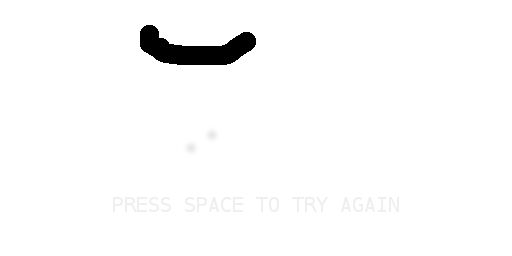
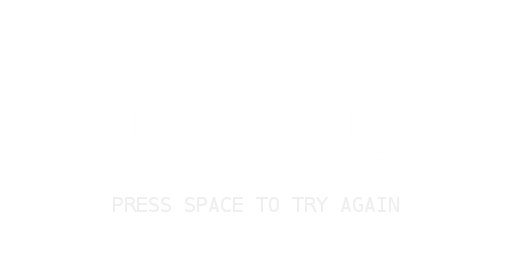
Shoots

Changed region(s): [[0.25, 0.0938, 0.5, 0.2812]]

diff --git a/OrionsBelt/GfxStateMachine.cpp b/OrionsBelt/GfxStateMachine.cpp
@@ -50,26 +50,46 @@ void GfxStateMachine::RenderObjects(void){
 
 
 
+
+
 	for(int i=0;i<theWorld->nObjects;i++){
 		glPushMatrix();
 		float x = theWorld->worldObjects[i]->x;
 		float y = theWorld->worldObjects[i]->y;
-		float psi  = theWorld->worldObjects[i]->psi;
-		glLoadIdentity();
-		glTranslatef(x,y,0);
-		glRotatef(psi,0,0,1); //rotera kring z-axeln
 
-		glBegin(GL_LINE_LOOP);
-		glColor3f(1.0f, 1.0f, 1.0);
-		unsigned short tmp = theWorld->worldObjects[i]->nLine;
-		for(unsigned short k=0;k<tmp;k++){
+		if(theWorld->worldObjects[i]->plyType==LINE_LOOP){
 
-			glVertex2f(theWorld->worldObjects[i]->lineLoop[k]->x,theWorld->worldObjects[i]->lineLoop[k]->y);
+			float psi  = theWorld->worldObjects[i]->psi;
+			glLoadIdentity();
+			glTranslatef(x,y,0);
+			glRotatef(psi,0,0,1); //rotera kring z-axeln
+
+			glBegin(GL_LINE_LOOP);
+			glColor3f(1.0f, 1.0f, 1.0);
+			unsigned short tmp = theWorld->worldObjects[i]->nLine;
+			for(unsigned short k=0;k<tmp;k++){
+
+				glVertex2f(theWorld->worldObjects[i]->lineLoop[k]->x,theWorld->worldObjects[i]->lineLoop[k]->y);
+			}
+			glEnd();
 		}
-		glEnd();
+		else{
+			//glClear(GL_COLOR_BUFFER_BIT | GL_DEPTH_BUFFER_BIT);
+			glLoadIdentity();
+
+			glTranslatef(x,y,0);
+			glColor3f(1.0f, 1.0f, 1.0);
+			glPointSize(2.0f);
+			glBegin(GL_POINTS);
+				glVertex2f(theWorld->worldObjects[i]->lineLoop[0]->x,theWorld->worldObjects[i]->lineLoop[0]->y);
+			glEnd();
+
+		}
+
 		glPopMatrix();
 
 	}
+
 
 }
 
@@ -93,10 +113,9 @@ void GfxStateMachine::RenderDeadScreen() {
 		glBegin(GL_QUADS);
 		glColor4f(1,1,1,1.0);
 		glTexCoord2f(0.0, 1.0);glVertex2f(GLB::w*0.4, GLB::h*0.5+GLB::w*0.1);//upper left
-		glTexCoord2f(0.0, 0.0); glVertex2f(GLB::w*0.4,  GLB::h*0.5-GLB::w*0.1);//lower left
+		glTexCoord2f(0.0, 0.0);glVertex2f(GLB::w*0.4, GLB::h*0.5-GLB::w*0.1);//lower left
 		glTexCoord2f(1.0, 0.0);glVertex2f(GLB::w*0.6, GLB::h*0.5-GLB::w*0.1); //lower right
 		glTexCoord2f(1.0, 1.0);glVertex2f(GLB::w*0.6, GLB::h*0.5+GLB::w*0.1);///upper right
-
 	glEnd();
 	glDisable(GL_TEXTURE_2D);
 	glPopMatrix();

diff --git a/OrionsBelt/WorldObject.cpp b/OrionsBelt/WorldObject.cpp
@@ -13,22 +13,9 @@
 #define RANDZM(x) (rand()%x-x/2)
 
 
-WorldObject::WorldObject(float x,float y,float psi,float vx,float vy,float dpsi){
-			this->x = x;
-			this->y = y;
-			this->psi = psi;
-			this->vx = vx;
-			this->vx = vy;
-			this->dpsi = dpsi;
-}
+
 
 WorldObject::WorldObject() {
-			this->x = 0;
-			this->y = 0;
-			this->psi = 0;
-			this->vx = 0;
-			this->vx = 0;
-			this->dpsi = 0;
 }
 
 void WorldObject::SetGeometry(GLfloat* points, int nPointPairs){
@@ -73,6 +60,7 @@ Asteroid::Asteroid(){
 	this->dpsi = +RANDZM(50);
 	objType = TYPE_ASTEROID;
 	colRad = 55;
+	plyType = LINE_LOOP;
 }
 
 MyShip::MyShip(){
@@ -83,9 +71,32 @@ MyShip::MyShip(){
 	this->nLine = 3;
 	this->objType = TYPE_MYSHIP;
 	colRad = 30;
+	plyType = LINE_LOOP;
 }
 
 
 void MyShip::Kill() {
 	this->~WorldObject();
+}
+
+Bullet::Bullet(WorldObject* parent) {
+	this->objType = TYPE_BULLET;
+	this->lineLoop = new Vector*[1];
+	this->lineLoop[0] = new Vector(0,0);
+	this->nLine = 1;
+	this->x = parent->x+cos(parent->psi/57.3)*100;
+	this->y = parent->y+sin(parent->psi/57.3)*100;
+	this->vx = parent->vx+700*cos(parent->psi/57.3);
+	this->vy = parent->vy+700*sin(parent->psi/57.3);
+	plyType = VERTEX;
+	colRad = 1;
+	psi = 0;
+}
+
+Explosion::Explosion(Point start, WorldObject parent) {
+
+}
+
+void MyShip::FireBullet() {
+	theWorld->AddObject(new Bullet(theWorld->myShip));
 }

diff --git a/OrionsBelt/WorldObject.h b/OrionsBelt/WorldObject.h
@@ -10,11 +10,18 @@
 
 #include "main.h"
 
+#define TYPE_MYSHIP 1
+#define TYPE_ASTEROID 2
+#define TYPE_BULLET 3
 
+enum plyTypes {
+	LINE_LOOP,
+	VERTEX
+};
 
 class WorldObject {
 public:
-	WorldObject(float x,float y,float psi,float vx,float vy,float dpsi);
+
 	WorldObject();
 	virtual ~WorldObject();
 	void SetGeometry(GLfloat* points, int nPointPairs);
@@ -27,16 +34,11 @@ public:
 	float vy;
 	float dpsi;
 	float colRad;
-	unsigned int plyType ;
+	plyTypes plyType ;
 	Vector ** lineLoop;
 	unsigned short nLine;
 	int reserved[4];
 };
-
-
-
-
-
 
 
 class MyShip: public WorldObject {
@@ -44,11 +46,27 @@ class MyShip: public WorldObject {
 	public:
 		MyShip();
 		void Kill();
+		void FireBullet();
 	};
 
 class Asteroid: public WorldObject {
 	public:
 		Asteroid();
+};
+
+class Bullet: public WorldObject{
+	public:
+		Bullet(WorldObject* parent);
+};
+
+class Schrapnel: public WorldObject{
+public:
+	Schrapnel(Point start, WorldObject parent);
+};
+
+class Explosion: public WorldObject{
+	public:
+		Explosion(Point start, WorldObject parent);
 };
 
 #endif /* WORLDOBJECT_H_ */

diff --git a/OrionsBelt/GameStateMachine.cpp b/OrionsBelt/GameStateMachine.cpp
@@ -52,6 +52,9 @@ void changeShipVelocity() {
 void checkBorders() {
 
 	for(int i = 0; i< theWorld->nObjects; i++){
+		if(theWorld->worldObjects[i]->objType == TYPE_BULLET)
+			continue;
+
 		if (theWorld->worldObjects[i]->x >GLB::w)
 			theWorld->worldObjects[i]->x = 0;
 
@@ -117,6 +120,13 @@ GameStateMachine::~GameStateMachine() {
 	// TODO Auto-generated destructor stub
 }
 
+void GameStateMachine::UpdateObjects(){
+	MyShip* myShip = theWorld->GetMyShip();
+	if(myShip!=NULL & keyboardState.ent)
+		myShip->FireBullet();
+
+}
+
 void GameStateMachine::UpdateStates() {
 
 	if((!isLive) & keyboardState.spc  ){
@@ -133,8 +143,10 @@ void GameStateMachine::UpdateStates() {
 	changeObjectPosition();
 	checkBorders();
 
+
 	if(isLive){
 		changeShipVelocity();
+		UpdateObjects();
 		if(checkCollision(theWorld->GetMyShip())){
 			KillGame();
 		}

diff --git a/OrionsBelt/main.cpp b/OrionsBelt/main.cpp
@@ -88,6 +88,9 @@ void keyboardFunc(unsigned char key, int x, int y){
 		case ' ':
 			keyboardState.spc = 1;
 			break;
+		case 0x0D:
+			keyboardState.ent = 1;
+			break;
 		default:
 			break;
 		}
@@ -109,6 +112,9 @@ void keyboardUpFunc(unsigned char key, int x, int y){
 			break;
 		case ' ':
 			keyboardState.spc = 0;
+			break;
+		case 0x0D:
+			keyboardState.ent = 0;
 			break;
 		default:
 			break;

diff --git a/OrionsBelt/main.h b/OrionsBelt/main.h
@@ -12,8 +12,7 @@
 
 
 
-#define TYPE_MYSHIP 1
-#define TYPE_ASTEROID 2
+
 
 struct KeyboardState{
 	int w = 0;
@@ -21,7 +20,7 @@ struct KeyboardState{
 	int a = 0;
 	int d = 0;
 	int spc = 0;
-
+	int ent = 0;
 };
 
 class Point {

diff --git a/OrionsBelt/TheUniverse.cpp b/OrionsBelt/TheUniverse.cpp
@@ -8,7 +8,7 @@
 #include "TheUniverse.h"
 
 TheUniverse::TheUniverse(){
-	worldObjects = new WorldObject*[100];
+	worldObjects = new WorldObject*[10000];
 }
 
 TheUniverse::~TheUniverse() {

diff --git a/OrionsBelt/GameStateMachine.h b/OrionsBelt/GameStateMachine.h
@@ -15,6 +15,7 @@ public:
 	bool isLive = false;
 	void UpdateStates();
 	void KillGame();
+	void UpdateObjects();
 };
 
 #endif /* GAMESTATEMACHINE_H_ */
